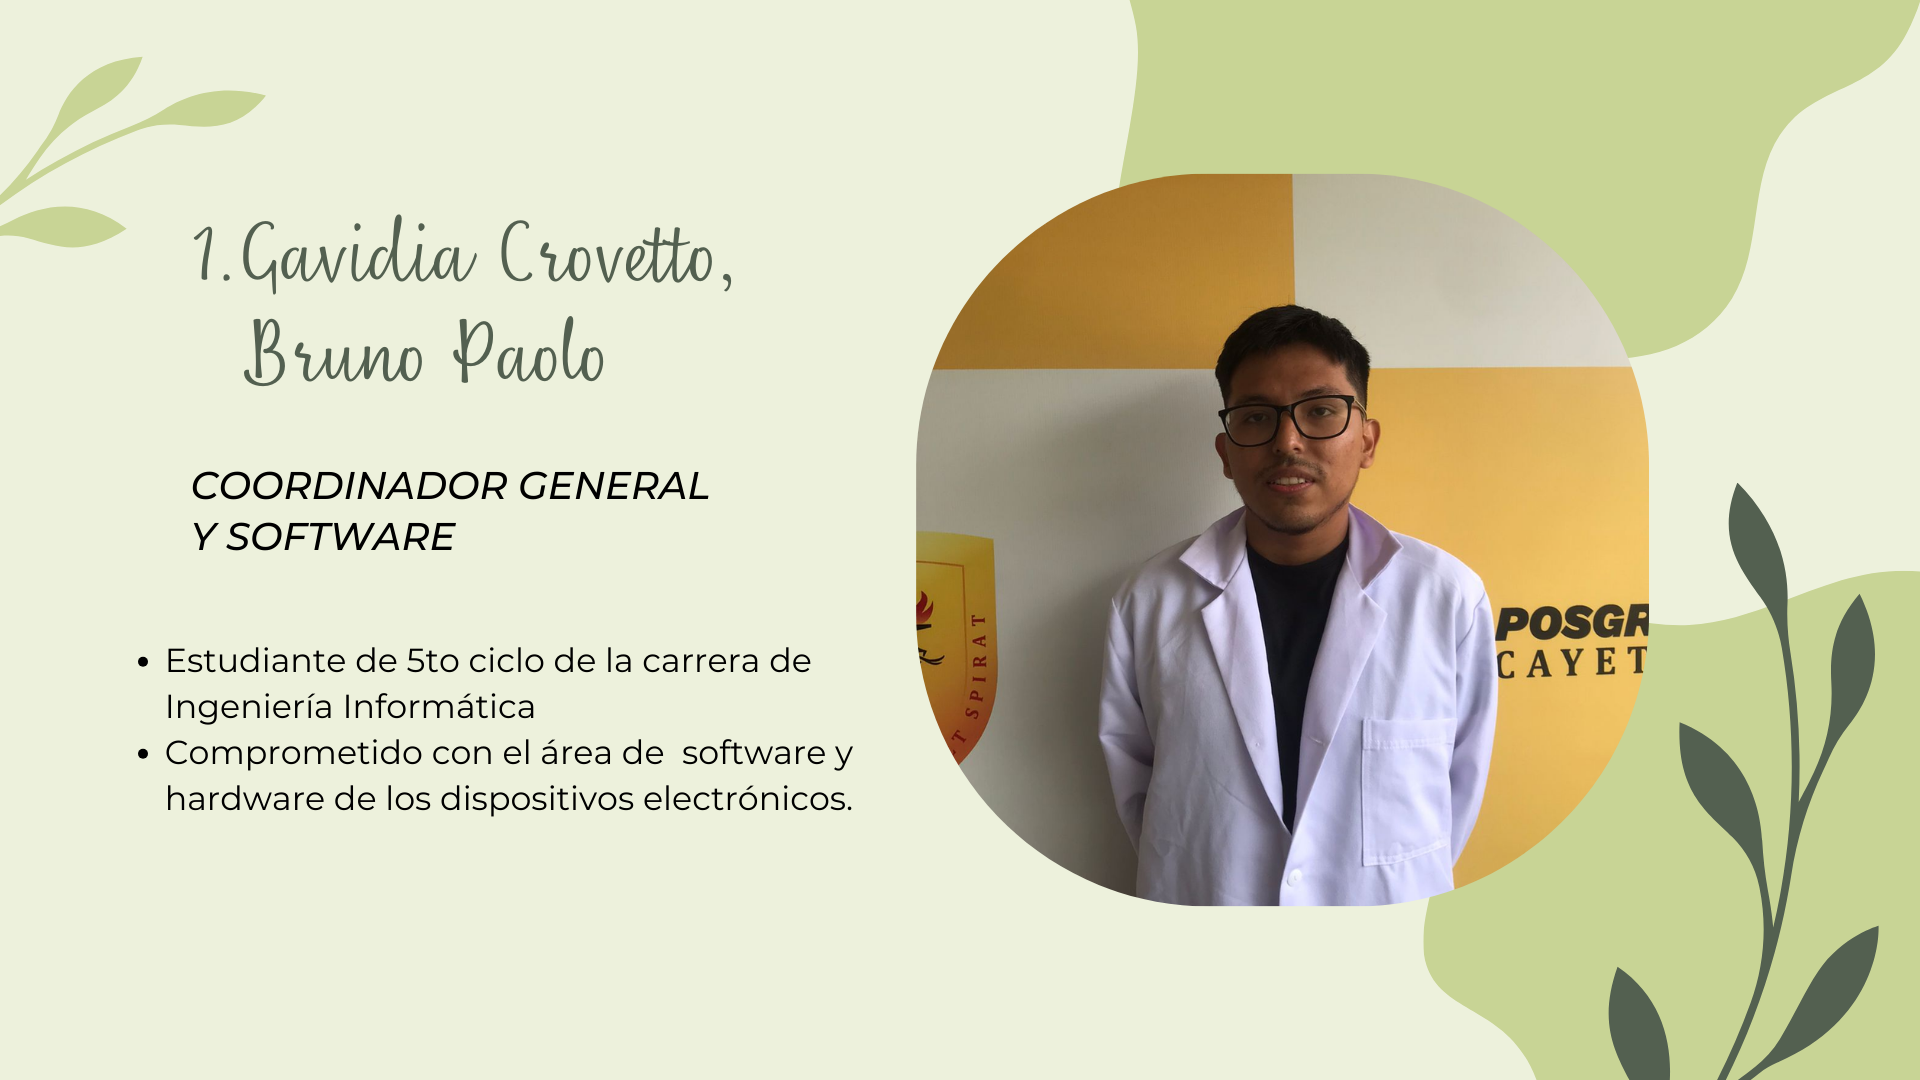
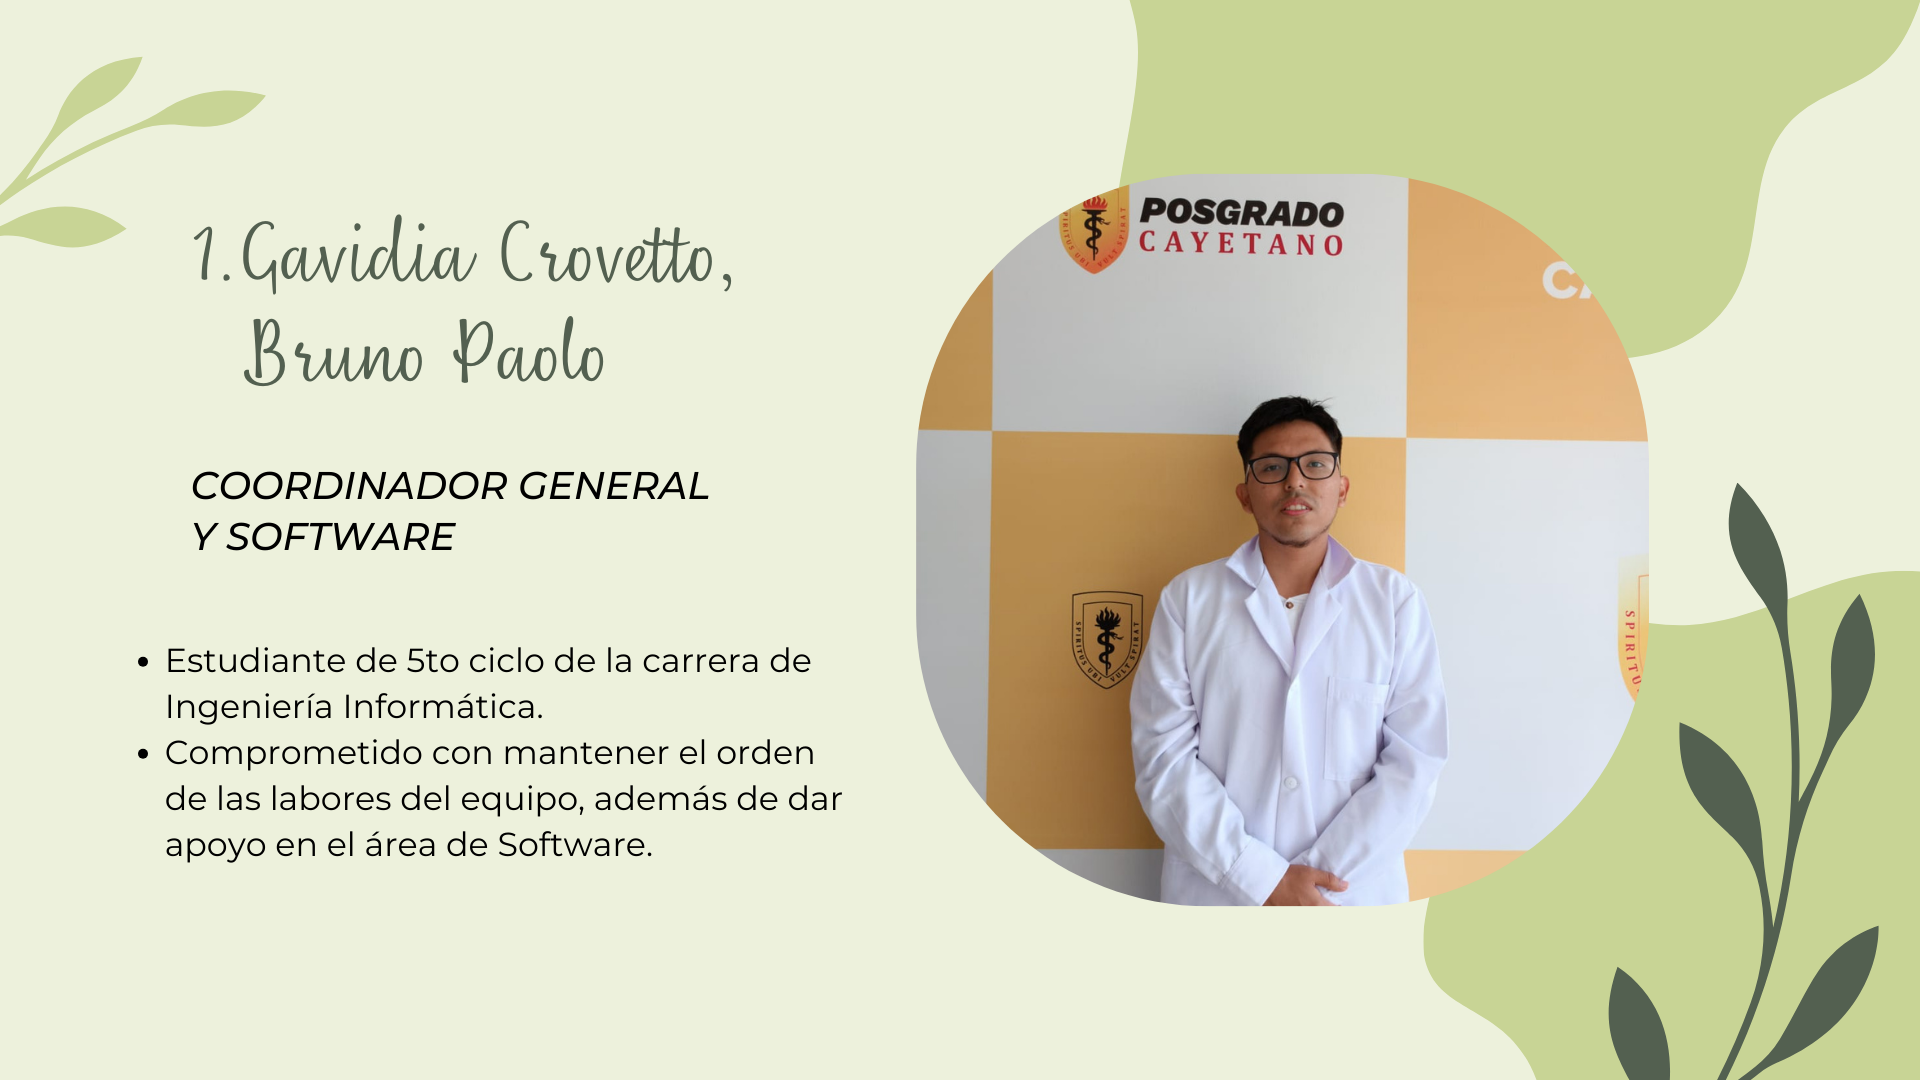
.

Changed region(s): [[0.4688, 0.1528, 0.875, 0.8556], [0.0938, 0.6722, 0.4375, 0.7944]]

diff --git a/README.md b/README.md
@@ -15,7 +15,7 @@ El equipo está conformado por:
 
 1. Alarcon Arias, Julio Erick: Coordinador Electrónico
 2. Atao Surichaqui, Ester Solamyt: Coordinadora de Investigacion y Redaccion
-3. Gavidia Crovetto, Bruno Paolo: Coordinador General
+3. Gavidia Crovetto, Bruno Paolo: Coordinador General y Software
 4. Vega Pahuara, Millene Nadile: Coordinadora del Modelado del Prototipo
 
 ![Imagen](Archivos_de_FDD/Imagenes/Foto_integrantes_FDD.jpg)
